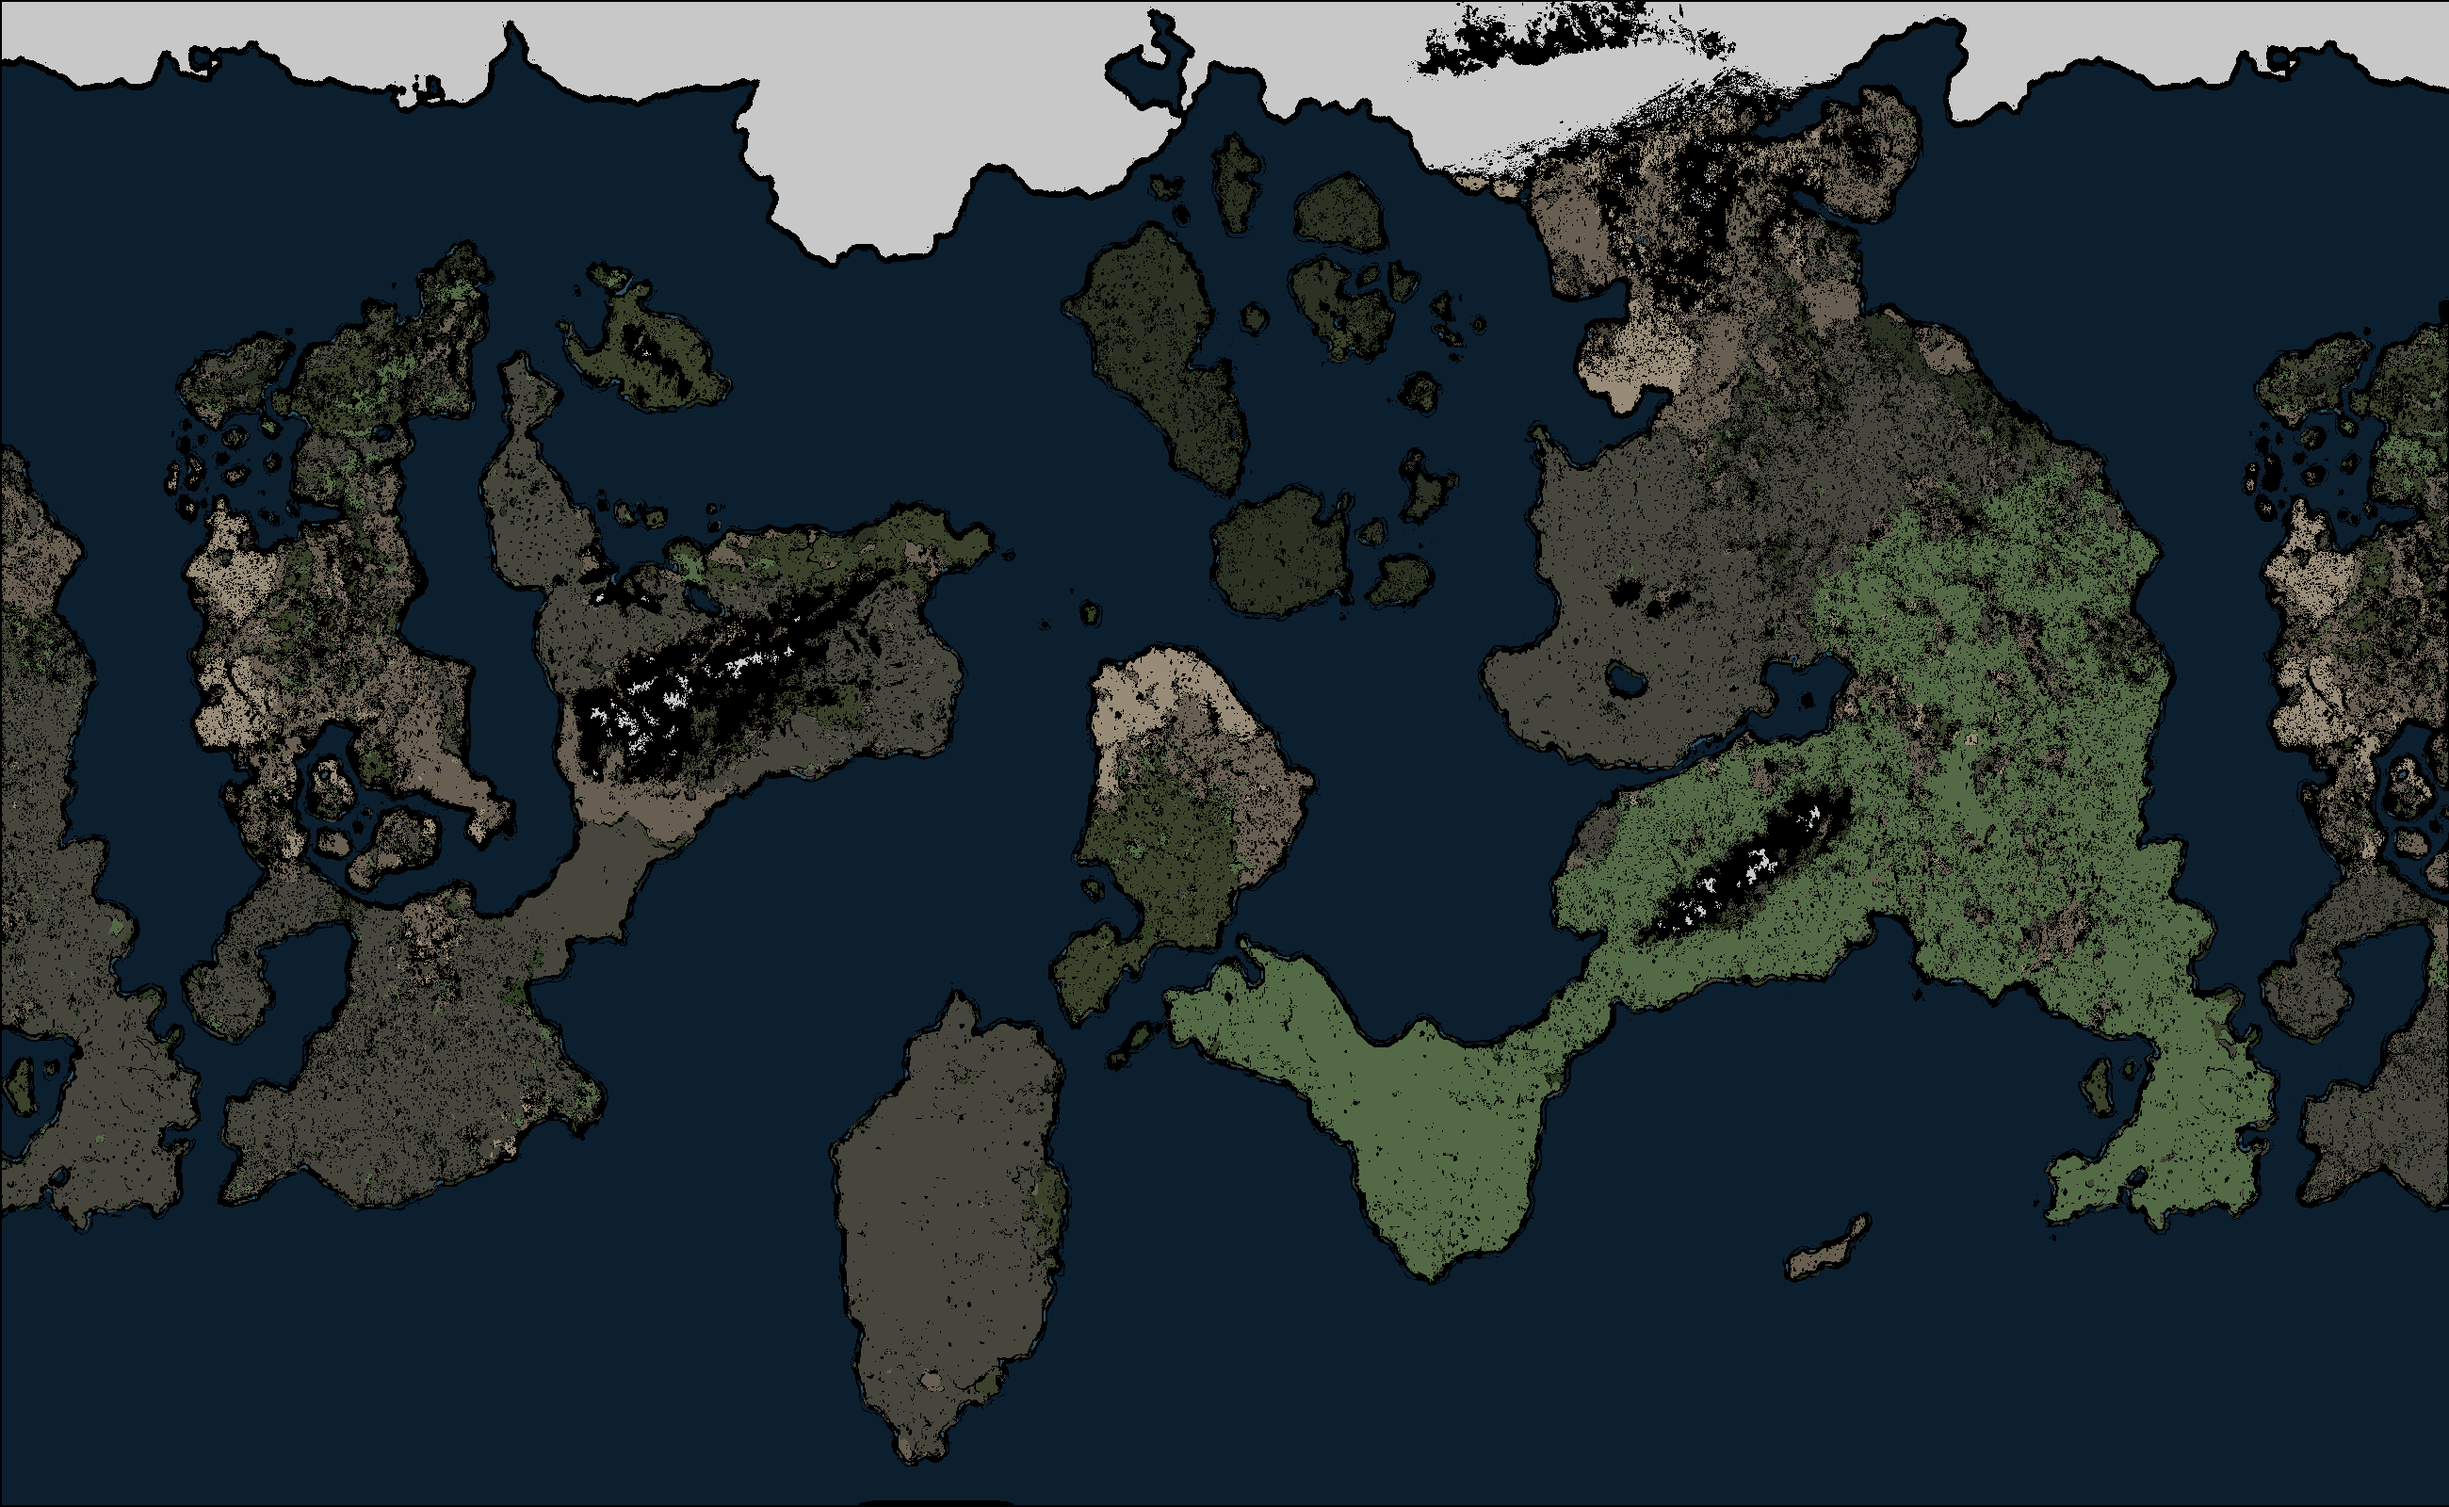
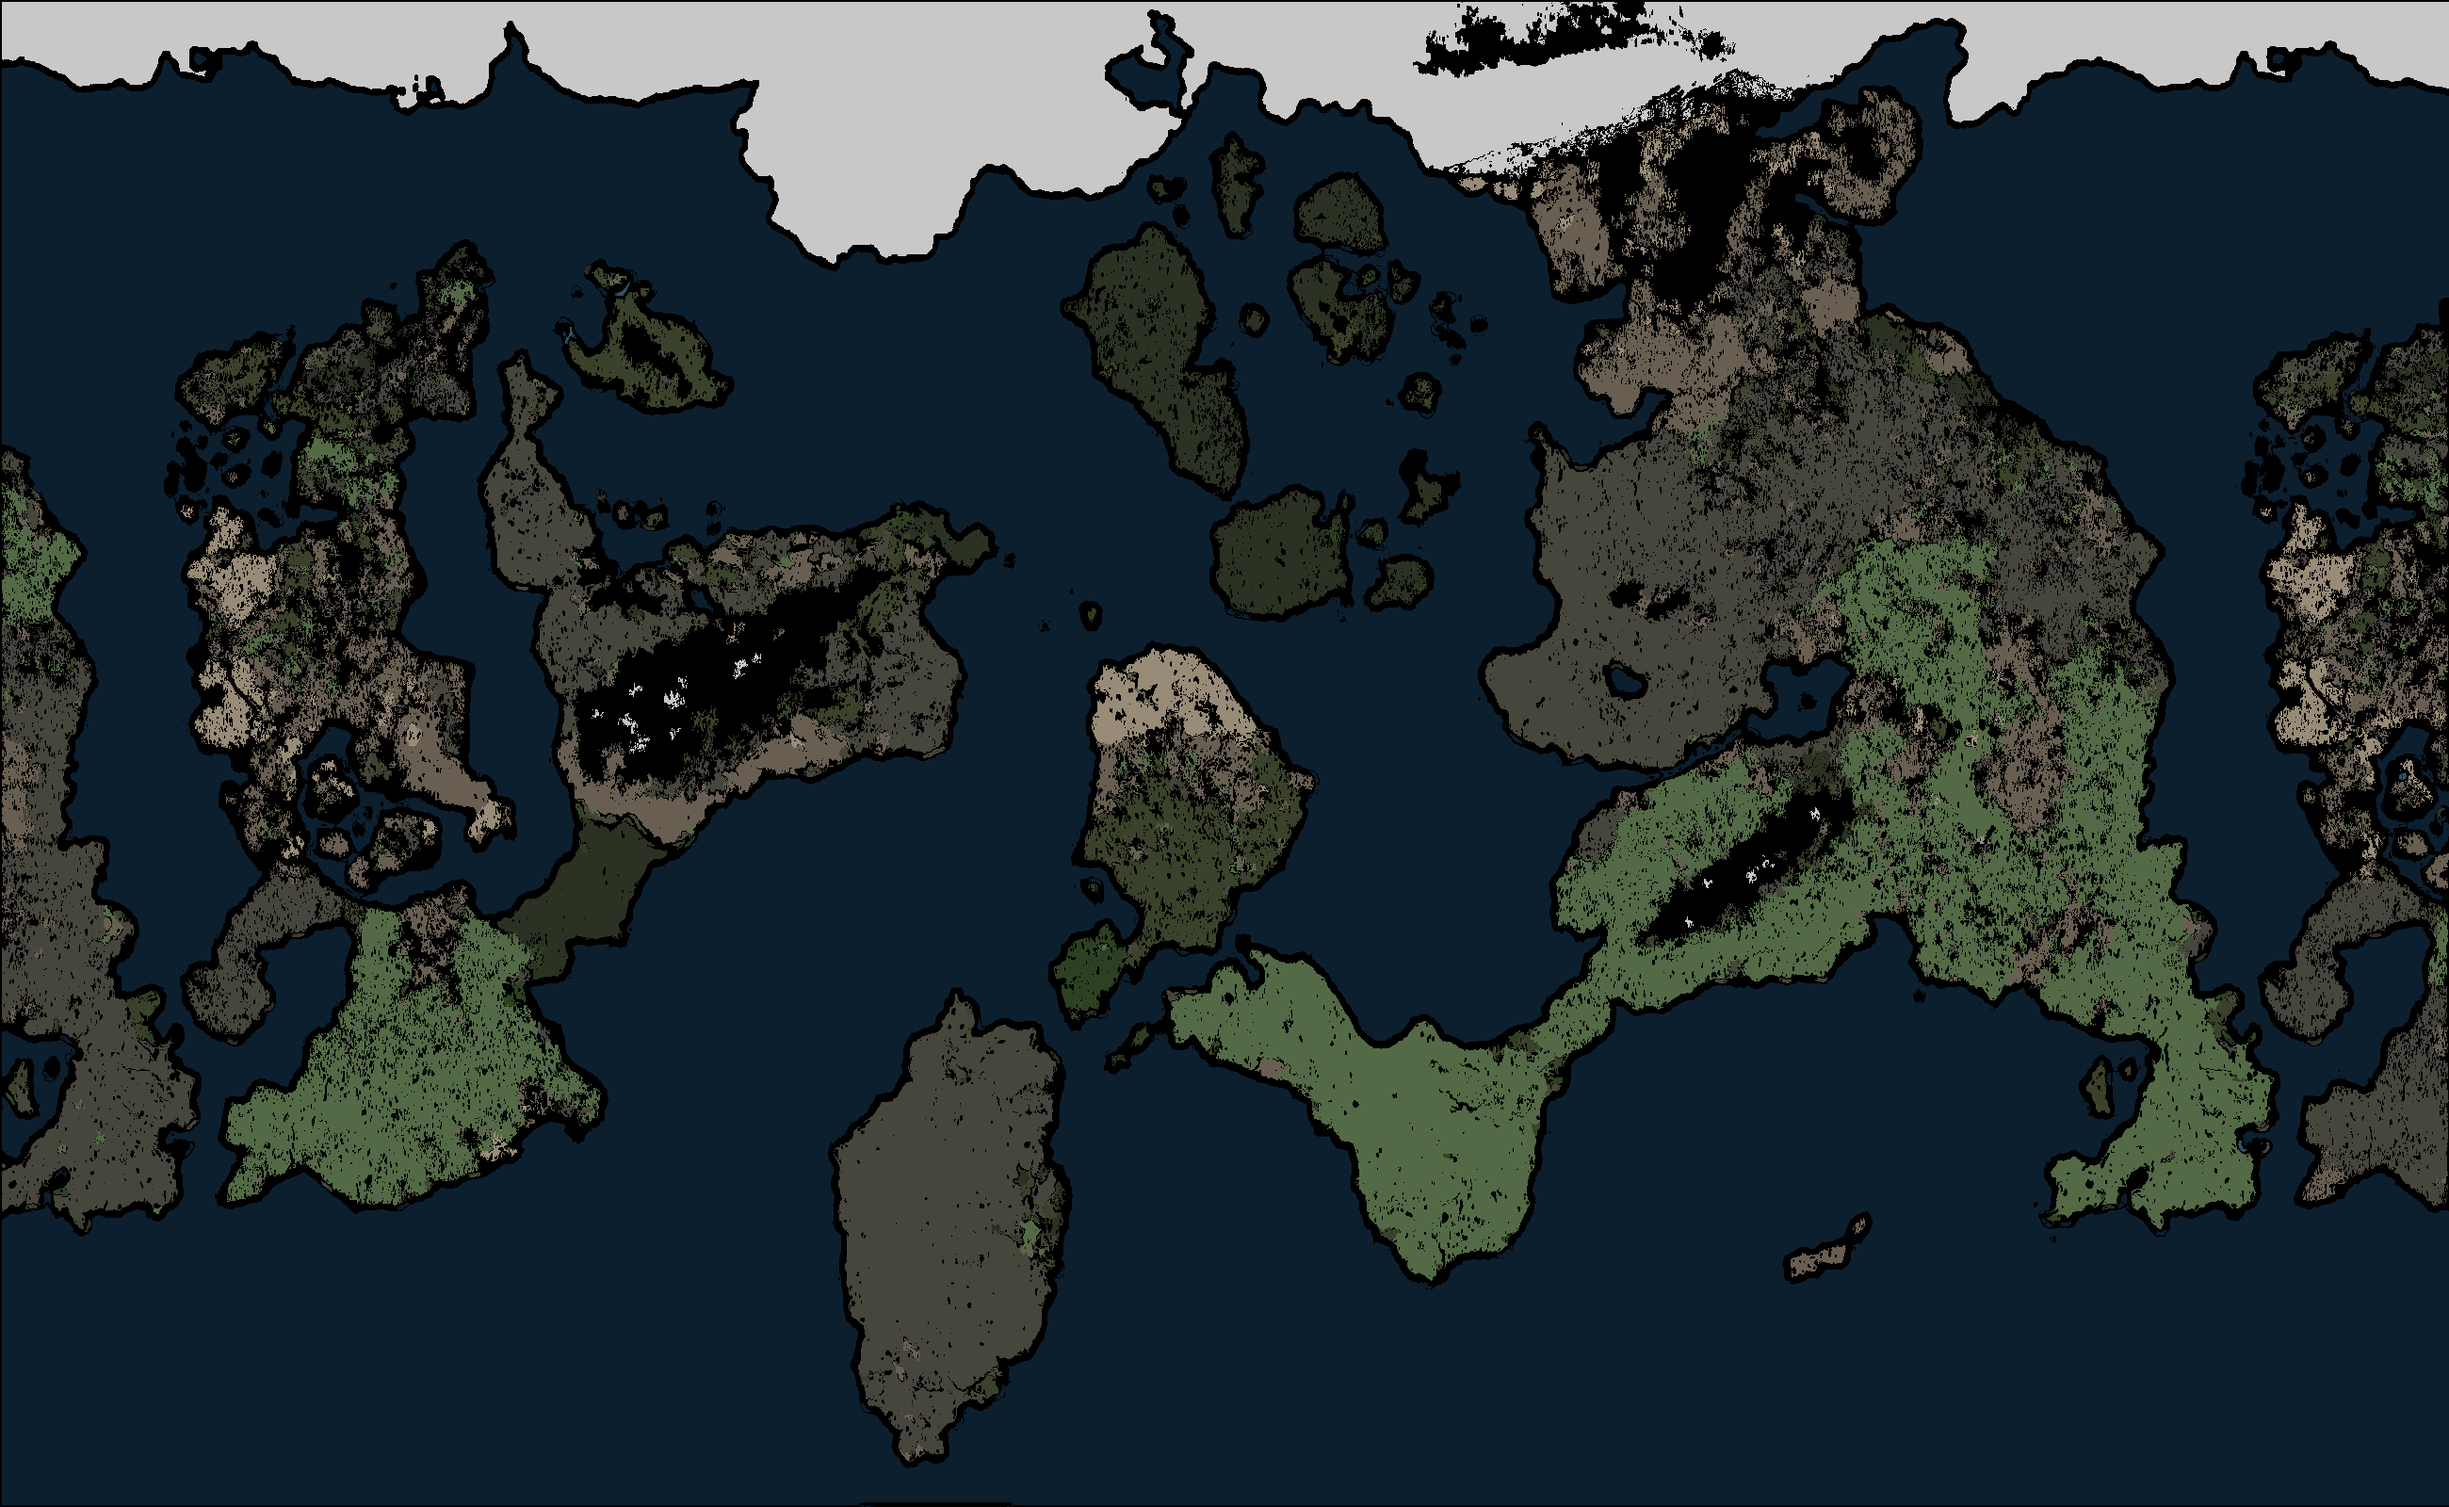
merge

diff --git a/SAE_IL/src/Main.java b/SAE_IL/src/Main.java
@@ -49,23 +49,15 @@ public class Main {
         String[] images = {"Planete 1", "Planete 2", "Planete 3", "Planete 4", "Planete 5"};
         String[] normes = {"Redmean", "CIELAB", "Oeil"};
         int flou = 5;
-        int[][] paramSCAN = {{20, 8}, {13, 6}, {13, 6}};
+        int[][] paramSCAN = {{40, 12}, {40, 12}, {40, 13}};
         String ext = "jpg";
         NormeCouleurs[] normes_couleurs = {new NormeRedmean(), new NormeCIELAB(), new NormeOeil()};
         for(String img : images){
-<<<<<<< HEAD
-            int[] dim = image.getDim("C:/Users/user/Desktop/Cours/SAE-Planet/SAE_IL/SAE_IL/img/", img + "." + ext);
-            image.flouter("C:/Users/user/Desktop/Cours/SAE-Planet/SAE_IL/SAE_IL/img/", img + "." + ext, "Planete_Floue","png", flou, new Flou_gaussien());
-            int[][] param = image.image_to_param("C:/Users/user/Desktop/Cours/SAE-Planet/SAE_IL/SAE_IL/img/", "Planete_Floue.png");
-            for(int i = 0; i < normes.length; i++){
-                DBScan scan = new DBScan(paramSCAN[i][0],paramSCAN[i][1], normes_couleurs[i],dim[0]);
-=======
             int[] dim = image.getDim(path, img + "." + ext);
             image.flouter(path, img + "." + ext, "Planete_Floue","png", flou, new Flou_gaussien());
             for(int i = 0; i < normes.length; i++){
                 DBScan scan = new DBScan(paramSCAN[i][0],paramSCAN[i][1], normes_couleurs[i],dim[0]);
                 int[][] param = image.image_to_param(path, "Planete_Floue.png");
->>>>>>> 7106f5fca4d5cc5d5194cfbdeb2bf91d6340ec16
                 int[] clusters = scan.algoClust(param);
                 String[] biomes = image.convertCluster(param, clusters);
                 image.imagebiome(param, biomes, clusters, path+"/dbscan/"+normes[i]+"/", img+" DBSCAN " + normes[i], "png", dim[0], dim[1]);

diff --git a/SAE_IL/src/DBScan.java b/SAE_IL/src/DBScan.java
@@ -14,7 +14,7 @@ public class DBScan implements InterfaceClustering {
     public DBScan(int minPts, double eps, NormeCouleurs norme, int width) {
         this.minPts = minPts;
         this.eps = eps;
-        this.area = 4;
+        this.area = 6;
         this.norme = norme;
         this.width = width;
     }
@@ -98,7 +98,7 @@ public class DBScan implements InterfaceClustering {
                 int voisinIndex = x + y * width;
                 if (voisinIndex != index && (clusters[voisinIndex] == -1 || clusters[voisinIndex] == 0)) {
                     int[] voisinPoint = param[voisinIndex];
-                    int distance = (int) (norme.distanceCouleur(voisinPoint, moyenneCouleur)*1.5 + distanceCood(voisinPoint, point)*0.5);
+                    int distance = (int) (norme.distanceCouleur(voisinPoint, moyenneCouleur)*1.5 + distanceCood(voisinPoint, point));
                     if (distance <= eps) {
                         voisins.add(voisinIndex);
                     }

diff --git a/SAE_IL/src/Flou_gaussien.java b/SAE_IL/src/Flou_gaussien.java
@@ -8,7 +8,7 @@ public class Flou_gaussien implements Flou{
         double r = 0;
         double g = 0;
         double b = 0;
-        double sigma = 5;
+        double sigma = 20;
         for(int i = 0; i < couleurs.length; i++){
             for(int j = 0; j < couleurs[0].length; j++){
                 sum += calculIndice(i, j, sigma);
